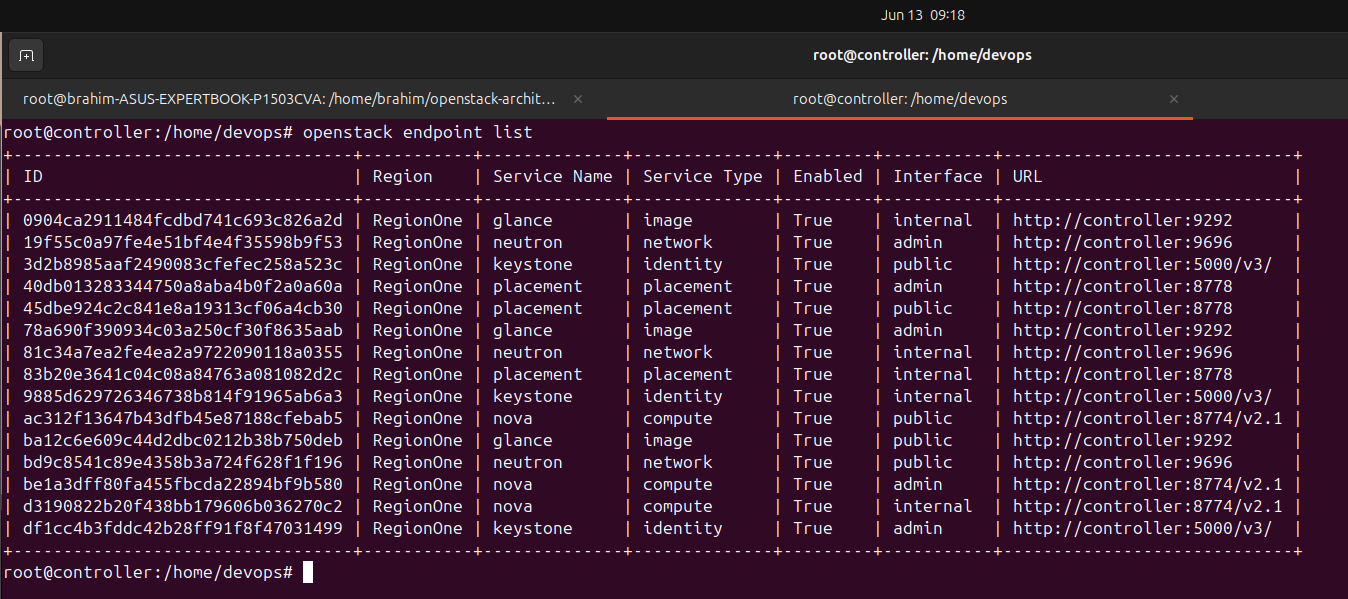
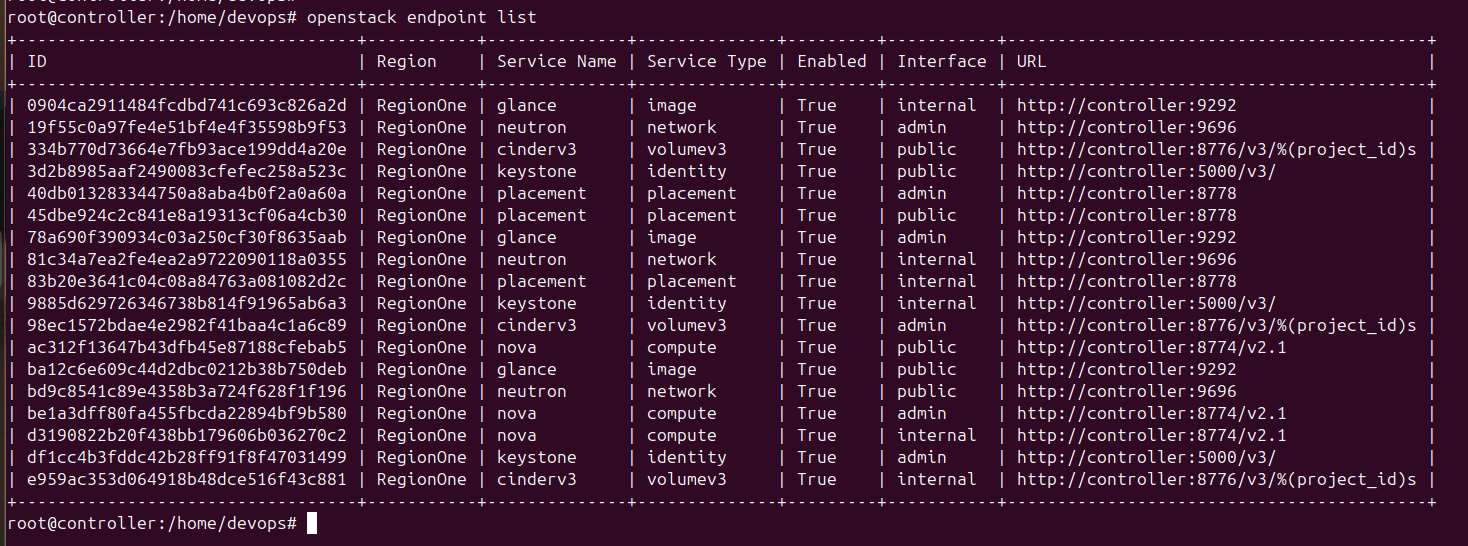
updated images for the project and cinder update

diff --git a/client/src/hooks/use-portfolio.ts b/client/src/hooks/use-portfolio.ts
@@ -132,51 +132,52 @@ const MOCK_PROJECTS: Project[] = [
   },
 
   {
-    id: 3, // Adjust the ID based on your existing project list
+    id: 7,
     title: {
-      en: "Distributed 3-Node OpenStack Cloud Deployment",
-      fr: "Déploiement d'un Cloud Privé OpenStack sur Architecture Tri-Nœuds"
+      en: "Distributed 4-Node OpenStack Cloud Infrastructure Deployment",
+      fr: "Déploiement d'un Cloud Privé OpenStack sur Architecture à 4 Nœuds"
     },
     description: {
-      en: "A manual, service-by-service deployment of an enterprise OpenStack cloud cluster (1 Controller, 2 Computes) built to master low-level cloud architecture, networking topologies, and distributed troubleshooting without reliance on automated installers.",
-      fr: "Déploiement manuel, service par service, d'un cluster cloud d'entreprise OpenStack (1 Contrôleur, 2 Computes) réalisé pour maîtriser l'architecture cloud bas niveau, les topologies réseau et le troubleshooting distribué sans installateur automatique."
+      en: "A manual, service-by-service deployment of an enterprise OpenStack cloud cluster built to master low-level cloud architecture. Configured separate control, compute, and block storage planes to manage production-ready infrastructure, networking topologies, and persistent volumes without automated scripts.",
+      fr: "Déploiement manuel, service par service, d'un cluster cloud d'entreprise OpenStack conçu pour maîtriser l'architecture bas niveau. Configuration de plans distincts pour le contrôle, le calcul et le stockage par blocs afin de gérer des volumes persistants et des topologies réseau sans scripts automatisés."
     },
     techStack: [
       "OpenStack",
+      "Cinder (Block Storage)",
       "Ubuntu Server",
       "KVM/QEMU",
       "Netplan",
+      "LVM / iSCSI",
       "MariaDB",
       "RabbitMQ",
-      "Linux Bridges",
       "VXLAN"
     ],
     features: {
       en: [
-        "Distributed 3-node cluster segregation (Management & Provider traffic routing).",
-        "Software-Defined Networking (SDN) layer using Neutron with VXLAN encapsulation.",
-        "Complete tenant environment setup including Private Networks, Routers, and Floating IPs.",
-        "Live instance provisioning (Ubuntu 24.04 Cloud) with verified long-term infrastructure stability.",
-        "Advanced log analysis across microservices for precise inter-service debugging."
+        "Distributed 4-node cluster topology: 1 Controller, 2 Compute hosts, and 1 Dedicated Storage Node.",
+        "Configured OpenStack Cinder to provision and attach persistent block storage volumes to instances.",
+        "Software-Defined Networking (SDN) layer using Neutron with VXLAN encapsulation for tenant isolation.",
+        "Complete tenant environment routing with Private Networks, Routers, and Floating IPs.",
+        "Live instance provisioning (Ubuntu 24.04 Cloud) with attached volumes and verified long-term uptime stability."
       ],
       fr: [
-        "Ségrégation d'un cluster distribué à 3 nœuds (Routage des flux Management et Provider).",
-        "Couche de réseau SDN (Software-Defined Networking) via Neutron avec encapsulation VXLAN.",
-        "Environnement client complet : réseaux privés, routeurs virtuels et adresses IP flottantes.",
-        "Provisioning d'instances fonctionnelles (Ubuntu 24.04 Cloud) avec stabilité système vérifiée.",
-        "Analyse avancée des journaux applicatifs (logs) inter-services pour un débogage précis."
+        "Topologie distribuée à 4 nœuds : 1 Contrôleur, 2 hôtes Compute et 1 Nœud de Stockage dédié.",
+        "Configuration d'OpenStack Cinder pour le provisioning et l'attachement de volumes de stockage par blocs persistants.",
+        "Couche réseau SDN via Neutron avec encapsulation VXLAN pour une isolation stricte des clients.",
+        "Routage complet de l'environnement client avec réseaux privés, routeurs virtuels et IP flottantes.",
+        "Provisioning d'instances fonctionnelles (Ubuntu 24.04 Cloud) avec volumes rattachés et stabilité système vérifiée."
       ]
     },
-    repoUrl: "https://github.com/hamidbong/openstack-architecture-deployment.git",
-    // demoUrl: "", // Leave commented out or remove if you don't have a public live GUI dashboard link
-    imageUrl: "/projects/openstack-deployment/openstack_manuelle.png", // Path to your main project image or diagram
+   repoUrl: "https://github.com/hamidbong/openstack-architecture-deployment.git",
+    imageUrl: "/projects/openstack-deployment/openstack_manuelle.png", 
     images: [
       "/projects/openstack-deployment/openstack_manuelle.png","/projects/openstack-deployment/Openstack_dashboard_overview.png",
       "/projects/openstack-deployment/Instance_Openstack _dashbards.png", "/projects/openstack-deployment/Network_topology_Openstack.png", 
       "/projects/openstack-deployment/openstack_all_endpoints.png", "/projects/openstack-deployment/openstack_compute_service.png", 
-      "/projects/openstack-deployment/openstack-map-v20240401.png"       // Optional: Terminal CLI verification output screenshot
+      "/projects/openstack-deployment/openstack-map-v20240401.png", "/projects/openstack-deployment/openstack_cinder_service_list.png",
+      "/projects/openstack-deployment/volume_list.png"
     ],
-    featured: true // Set to true to highlight this major project on your homepage
+    featured: true 
   },
 
   {